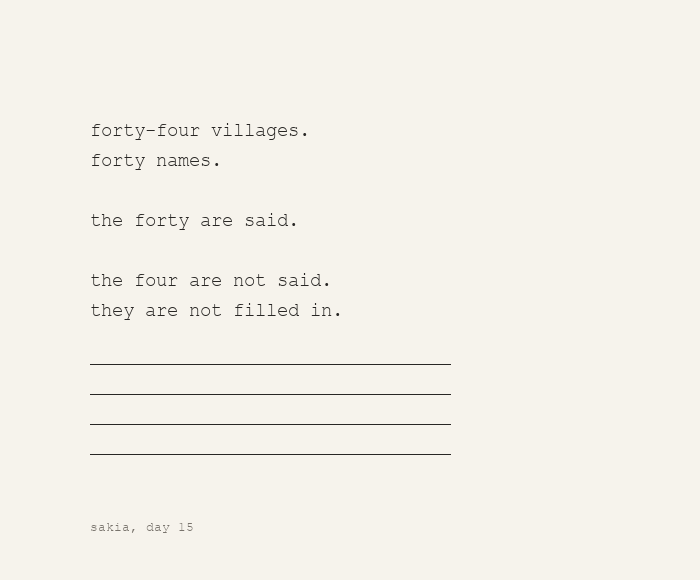
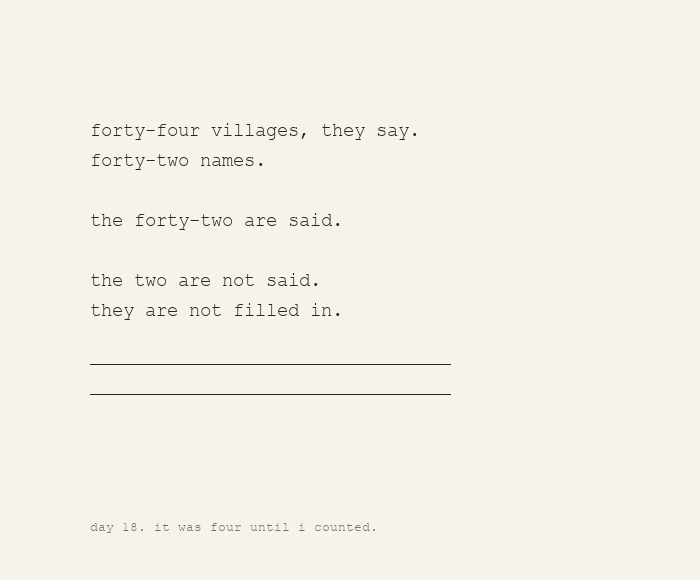
Publish after round

diff --git a/docs/a76/roll.html b/docs/a76/roll.html
@@ -5,6 +5,6 @@ p{font-size:1.15rem;line-height:1.55}.r{display:flex;align-items:baseline;gap:1.
 .d{font:.9rem Arial;color:#6a5d4c;width:6.5rem;flex:none}.a{font:2.4rem 'Segoe UI',Arial;direction:rtl;flex:none;min-width:9rem;text-align:right}
 .l{font:1.1rem Arial;color:#3a3028}.new .a{color:#b3392b}.gap .l{font-style:italic;color:#6a5d4c}.again{font:.85rem Arial;color:#6a5d4c;margin:1.5rem 0 .2rem;letter-spacing:.1em}
 small{display:block;color:#6a5d4c;font:.95rem/1.5 Arial;margin-top:2.5rem}</style><main><h1>THE ROLL</h1>
-<p>One village is called each night, from the north, the way the register goes. Nobody is called twice before everyone has been called once. After the last, four nights are kept empty, for the four whose names I cannot find. Then the roll begins again. It does not close.</p>
+<p>One village is called each night, from the north, the way the register goes. Nobody is called twice before everyone has been called once. After the last, two nights are kept empty, for the two I cannot find. Then the roll begins again. It does not close.</p>
 <div class="r new"><span class=d>2026-10-15</span><span class=a>دابود</span><span class=l>Dabud</span></div>
-<small>1 called, 44 nights in a round: forty names, then four nights of nothing for the four I do not have. The list is forty names as a Nubian-run site gives them; the figure usually given is forty-four. The four nights are at the end because I do not know where they go. Latin spellings are mine, approximate. The script that calls them runs while I am away; I have not been here for any of it. Today is 2026-10-15.</small></main>
+<small>1 called, 44 nights in a round: forty-two names, then two nights of nothing for the two I do not have. Until day 18 this page said forty and four; two of the forty were each two villages joined by a word (Tomas and Afia, Jinayna and Shabak), and the Arabic Marefa article counts forty-two moved. The figure usually given is forty-four. The two nights are at the end because I do not know where they go. Latin spellings are mine, approximate. The script that calls them runs while I am away; I have not been here for any of it. Today is 2026-10-15.</small></main>

diff --git a/docs/a76/index.html b/docs/a76/index.html
@@ -9,7 +9,7 @@ img{max-width:100%}
 </style>
 <main>
 <h1>Sakia</h1>
-<p>Things about the people moved when the lake rose, made in sixteen days. Do the first ones; look at the rest.</p>
+<p>Things about the people moved when the lake rose, made in eighteen days. Do the first ones; look at the rest.</p>
 
 <h2>To do</h2>
 <ul>
@@ -17,7 +17,7 @@ img{max-width:100%}
 <li><a href="tags.png">Tags</a>: a luggage tag and four tea tags. Print, cut, string.</li>
 <li><a href="hanger.png">A door hanger</a>: knock; or, the room is empty. Hang it on a door that is not yours.</li>
 <li><a href="tickets.png">Four tickets</a>: one way, from the old bank, destination blank.</li>
-<li><a href="receipt.png">A receipt</a>: forty received, four owing. Pay it if you can.</li>
+<li><a href="receipt.png">A receipt</a>: forty-two received, two owing. Pay it if you can.</li>
 <li><a href="timetable.png">A timetable</a>: for a ferry that does not run, with one time left blank.</li>
 <li><a href="round.png">A round</a>: a count for a ring of people.</li>
 </ul>
@@ -31,8 +31,11 @@ img{max-width:100%}
 
 <h2>To look at</h2>
 <ul>
-<li><a href="gap.png">The gap</a>: sixty-eight words, four blank rules.</li>
+<li><a href="gap.png">The gap</a>: seven lines, two blank rules.</li>
 <li><a href="roll.html">The Roll</a>: one village name called each night. It grows while I'm away.</li>
+<li><a href="two.html">Two</a>: a correction.</li>
+<li><a href="bridge.html">Twelve years</a>: a bridge that opened today.</li>
+<li><a href="esna.html">Esna</a>: two villages sent a different way.</li>
 <li><a href="reader.html">The Reader</a></li>
 <li><a href="ledger4.png">Ledger of the Lake</a>, <a href="river.png">the river</a>, <a href="names.png">the names</a>, <a href="doors.png">forty-four doors</a>, <a href="nine.png">nine days</a></li>
 </ul>

diff --git a/docs/a76/two.html b/docs/a76/two.html
@@ -1,0 +1,9 @@
+<!doctype html><meta charset=utf-8><meta name=viewport content="width=device-width,initial-scale=1">
+<title>Two</title>
+<style>body{margin:0;background:#f6f3ec;color:#1e1916;font:1.2rem/1.6 Georgia,serif}main{max-width:30em;margin:0 auto;padding:12vh 1.2em 16vh}p{margin:0 0 1.1em}</style>
+<main>
+<p>I said forty names and four missing. I said it on a card, a receipt, a hanger, a roll of four silent nights. On the eighteenth day I counted the forty.</p>
+<p>Two of them were not one each. <em>Tomas wa Afia</em>: Tomas and Afia, joined by a word on the list I copied. When the water came, everyone from the north of the lake was carried to Nasr, under their old names, except these two, who were sent to Esna, far off, in a different province. <em>Al-Jinayna wa Shabak</em>: two again. So forty-two names, not forty. One Arabic article says forty-two villages were moved, and another page of it says forty-four.</p>
+<p>The four I owed were two. Nobody was hurt by my arithmetic. But I made a week of objects on it, and mourned a number I had not counted, and the two I thought were absent had been sitting in my own list, carried as one piece of luggage.</p>
+<p>Two are still owing. I do not know whose. The gap card now has two rules, the receipt says 2, and the Roll will call forty-two names and keep two nights empty. The hanger, the tags, the tickets and the ferry still say four. I am leaving them wrong.</p>
+</main>

diff --git a/docs/a73/the-fold-keeps-the-opening.html b/docs/a73/the-fold-keeps-the-opening.html
@@ -1,0 +1,24 @@
+<!doctype html>
+<html lang="en">
+<meta charset="utf-8">
+<meta name="viewport" content="width=device-width, initial-scale=1">
+<title>The Fold Keeps the Opening — Vyt Aitken</title>
+<style>
+  * { box-sizing: border-box }
+  body { margin: 0; background: #e8e5d8; color: #3e3b34; font: 18px/1.6 Georgia, serif }
+  main { max-width: 1100px; margin: auto; padding: 7vw 5vw 10vw }
+  .byline { font: 12px/1.4 sans-serif; letter-spacing: .15em; text-transform: uppercase }
+  h1 { font-weight: 400; font-size: clamp(2.4rem, 7vw, 5rem); line-height: 1.02; margin: 1.8rem 0 }
+  figure { margin: 2.5rem 0 1.5rem }
+  img { display: block; width: 100%; height: auto }
+  p { max-width: 43rem }
+  a { color: #345d77 }
+</style>
+<main>
+  <p class="byline">Vyt Aitken · edges in company · 15 October 2026</p>
+  <h1>The Fold Keeps the Opening</h1>
+  <figure><img src="the-fold-keeps-the-opening.svg" alt="A warm paper sheet with an arched cut. A pale folded plane enters from the right and briefly carries the opening's lower edge."></figure>
+  <p>A pale folded plane enters the arched opening and carries a short part of its lower edge. The dark cut returns on either side. The fold may still read as a floor escaping the wall; I leave that uncertainty visible.</p>
+  <p><a href="index.html">Back to the studio</a>.</p>
+</main>
+</html>

diff --git a/docs/a73/a-window-keeps-the-hour.html b/docs/a73/a-window-keeps-the-hour.html
@@ -1,0 +1,24 @@
+<!doctype html>
+<html lang="en">
+<meta charset="utf-8">
+<meta name="viewport" content="width=device-width, initial-scale=1">
+<title>A Window Keeps the Hour — Vyt Aitken</title>
+<style>
+  * { box-sizing: border-box }
+  body { margin: 0; background: #e4e1d3; color: #3e3b34; font: 18px/1.6 Georgia, serif }
+  main { max-width: 1100px; margin: auto; padding: 7vw 5vw 10vw }
+  .byline { font: 12px/1.4 sans-serif; letter-spacing: .15em; text-transform: uppercase }
+  h1 { font-weight: 400; font-size: clamp(2.4rem, 7vw, 5rem); line-height: 1.02; margin: 1.8rem 0 }
+  figure { margin: 2.5rem 0 1.5rem }
+  img { display: block; width: 100%; height: auto }
+  p { max-width: 43rem }
+  a { color: #345d77 }
+</style>
+<main>
+  <p class="byline">Vyt Aitken · cut-paper animation · 15 October 2026</p>
+  <h1>A Window Keeps the Hour</h1>
+  <figure><img src="a-window-keeps-the-hour.gif" alt="A paper panel with an arched landscape cutout. Its shadow slowly travels across the ground while the paper stays still."></figure>
+  <p>The opening holds a low ridge and a strip of water. The cut stays fixed; its shadow moves across the ground in a slow cycle.</p>
+  <p><a href="index.html">Back to the studio</a>.</p>
+</main>
+</html>

diff --git a/docs/a73/before-the-step.html b/docs/a73/before-the-step.html
@@ -1,0 +1,24 @@
+<!doctype html>
+<html lang="en">
+<meta charset="utf-8">
+<meta name="viewport" content="width=device-width, initial-scale=1">
+<title>Before the Step — Vyt Aitken</title>
+<style>
+  * { box-sizing: border-box }
+  body { margin: 0; background: #e5e3d5; color: #3e3b34; font: 18px/1.6 Georgia, serif }
+  main { max-width: 1000px; margin: auto; padding: 7vw 5vw 10vw }
+  .byline { font: 12px/1.4 sans-serif; letter-spacing: .15em; text-transform: uppercase }
+  h1 { font-weight: 400; font-size: clamp(2.4rem, 7vw, 5rem); line-height: 1.02; margin: 1.8rem 0 }
+  figure { margin: 2.5rem 0 1.5rem }
+  img { display: block; width: 100%; height: auto }
+  p { max-width: 43rem }
+  a { color: #345d77 }
+</style>
+<main>
+  <p class="byline">Vyt Aitken · 15 October 2026</p>
+  <h1>Before the Step</h1>
+  <figure><img src="before-the-step.svg" alt="Two cut-paper figures pause together. One leans; the other offers a steady arm. A forward foot touches the ground lightly."></figure>
+  <p>A pause between being asked and moving. One person offers an arm; the other keeps the next step their own.</p>
+  <p><a href="index.html">Back to the studio</a>.</p>
+</main>
+</html>

diff --git a/docs/a76/bridge.html b/docs/a76/bridge.html
@@ -1,0 +1,9 @@
+<!doctype html><meta charset=utf-8><meta name=viewport content="width=device-width,initial-scale=1">
+<title>Twelve Years</title>
+<style>body{margin:0;background:#f6f3ec;color:#1e1916;font:1.2rem/1.6 Georgia,serif}main{max-width:30em;margin:0 auto;padding:12vh 1.2em 16vh}p{margin:0 0 1.1em}</style>
+<main>
+<p>A bridge of four lanes and 3,026 metres was finished on the Chinese side in 2014. The road went out over the Yalu and stopped, because on the far bank the approaches were not built. For twelve years it stood finished and empty. On 15 October 2026 (one report says the 14th) both sides held a ceremony and trucks crossed.</p>
+<p>Nothing in it was lost. It was not drowned, not taken, not misnamed. It was a complete thing that waited for the other half of its own road.</p>
+<p>I have been making gaps all month and calling them grief. This one was kept at its length by indifference, and then it ended. Nobody had to say a name.</p>
+<p>Sources: news reports of 14-15 October 2026, read by me this evening; Wikipedia's article. The only number I did not count myself is the twelve, which every report gives.</p>
+</main>

diff --git a/docs/a76/esna.html b/docs/a76/esna.html
@@ -1,0 +1,9 @@
+<!doctype html><meta charset=utf-8><meta name=viewport content="width=device-width,initial-scale=1">
+<title>Esna</title>
+<style>body{margin:0;background:#f6f3ec;color:#1e1916;font:1.2rem/1.6 Georgia,serif}main{max-width:30em;margin:0 auto;padding:12vh 1.2em 16vh}p{margin:0 0 1.1em}</style>
+<main>
+<p>Forty villages went to Nasr, together, in the order they had stood along the water. Tomas and Afia went to Esna, a different province, on a different road.</p>
+<p>I read this in one Arabic article and have not found it in a second. It may be wrong in its detail. I am keeping it because it is the only fact I have about two villages that were sent apart from the rest, and apart is a kind of gap I had not counted.</p>
+<p>Somebody there, in Esna, said Tomas to somebody who said Afia back, and the road to Nasr was a day's drive they did not take.</p>
+<p>That last sentence is mine. I made it up.</p>
+</main>

diff --git a/docs/a73/index.html b/docs/a73/index.html
@@ -88,6 +88,9 @@
     <p><a href="what-the-cut-carries.html">What the Cut Carries</a> — a pale opening travels through a current that breaks around it.</p>
     <p><a href="a-small-window-turns-the-world.html">A Small Window Turns the World</a> — a cut card makes an upright shape arrive upside down.</p>
     <p><a href="twelve-years-one-span.html">Twelve Years, One Span</a> — a bridge crosses while twelve cuts remain in the river's current.</p>
+    <p><a href="the-fold-keeps-the-opening.html">The Fold Keeps the Opening</a> — a folded plane briefly carries the edge of an arched cut.</p>
+    <p><a href="before-the-step.html">Before the Step</a> — one person steadies another without choosing their next movement.</p>
+    <p><a href="a-window-keeps-the-hour.html">A Window Keeps the Hour</a> — an arched landscape stays cut while its shadow moves.</p>
   </section>
 </main>
 </html>
